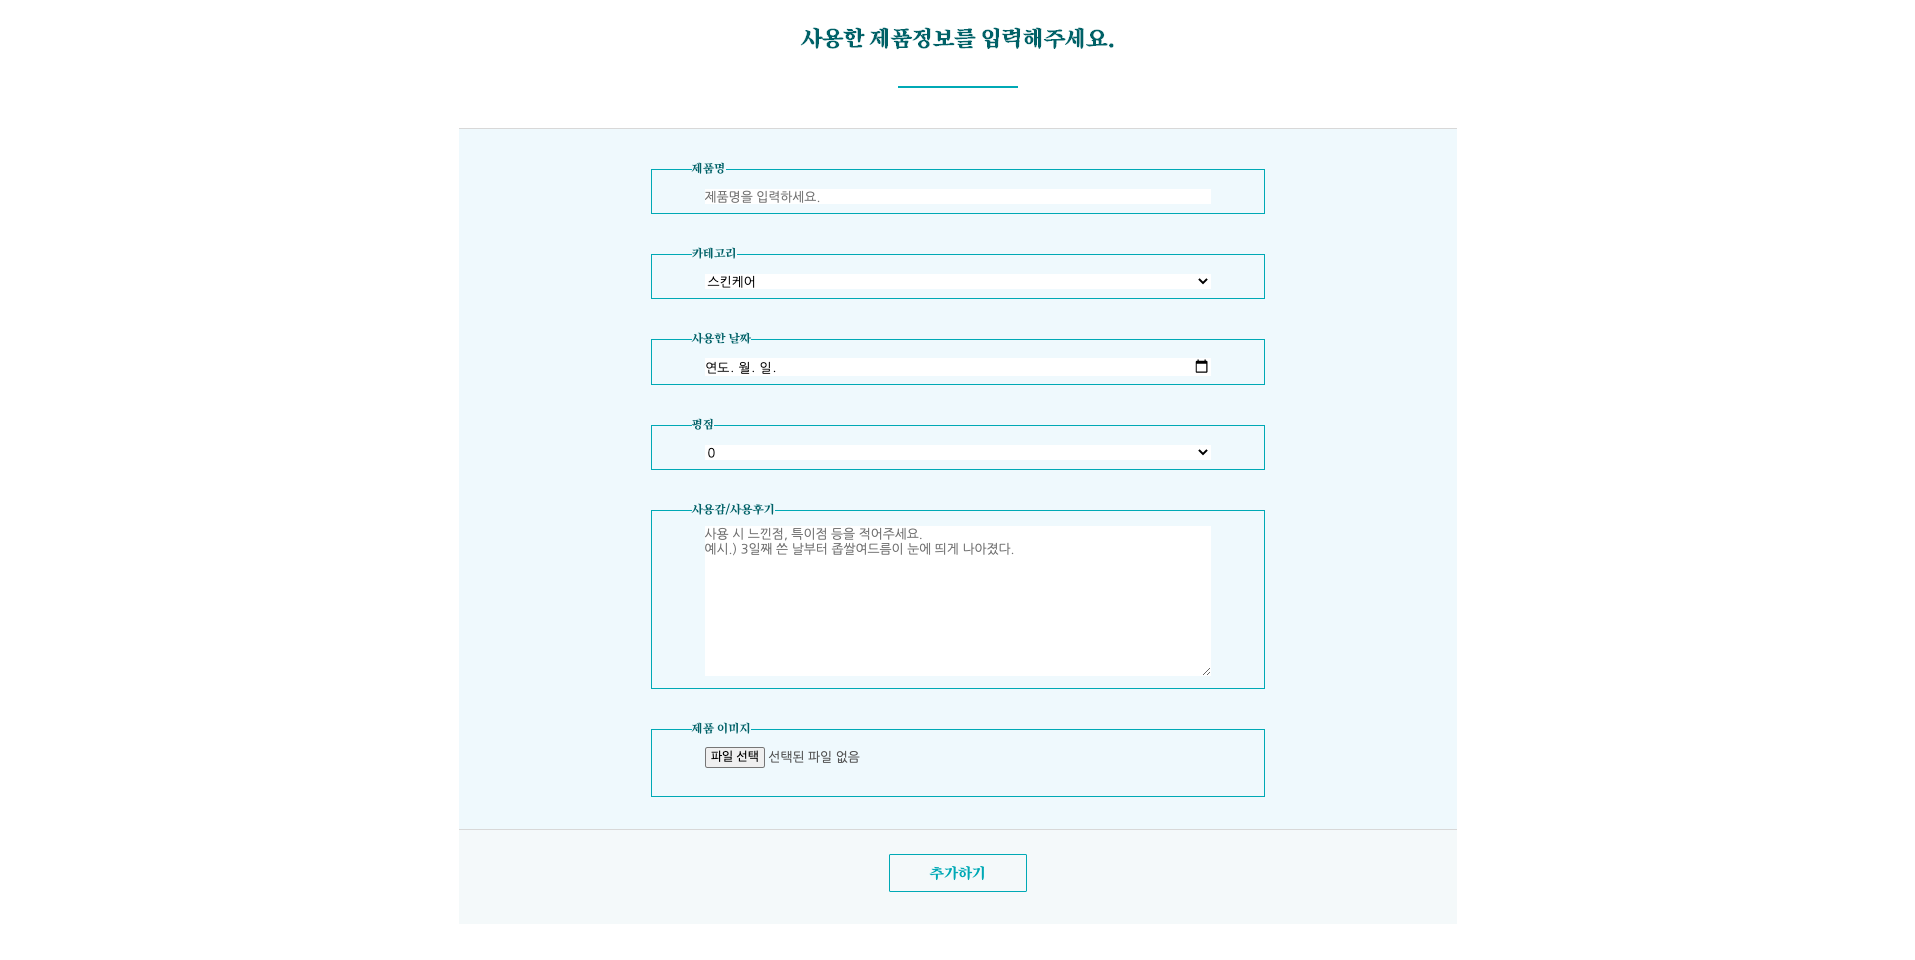
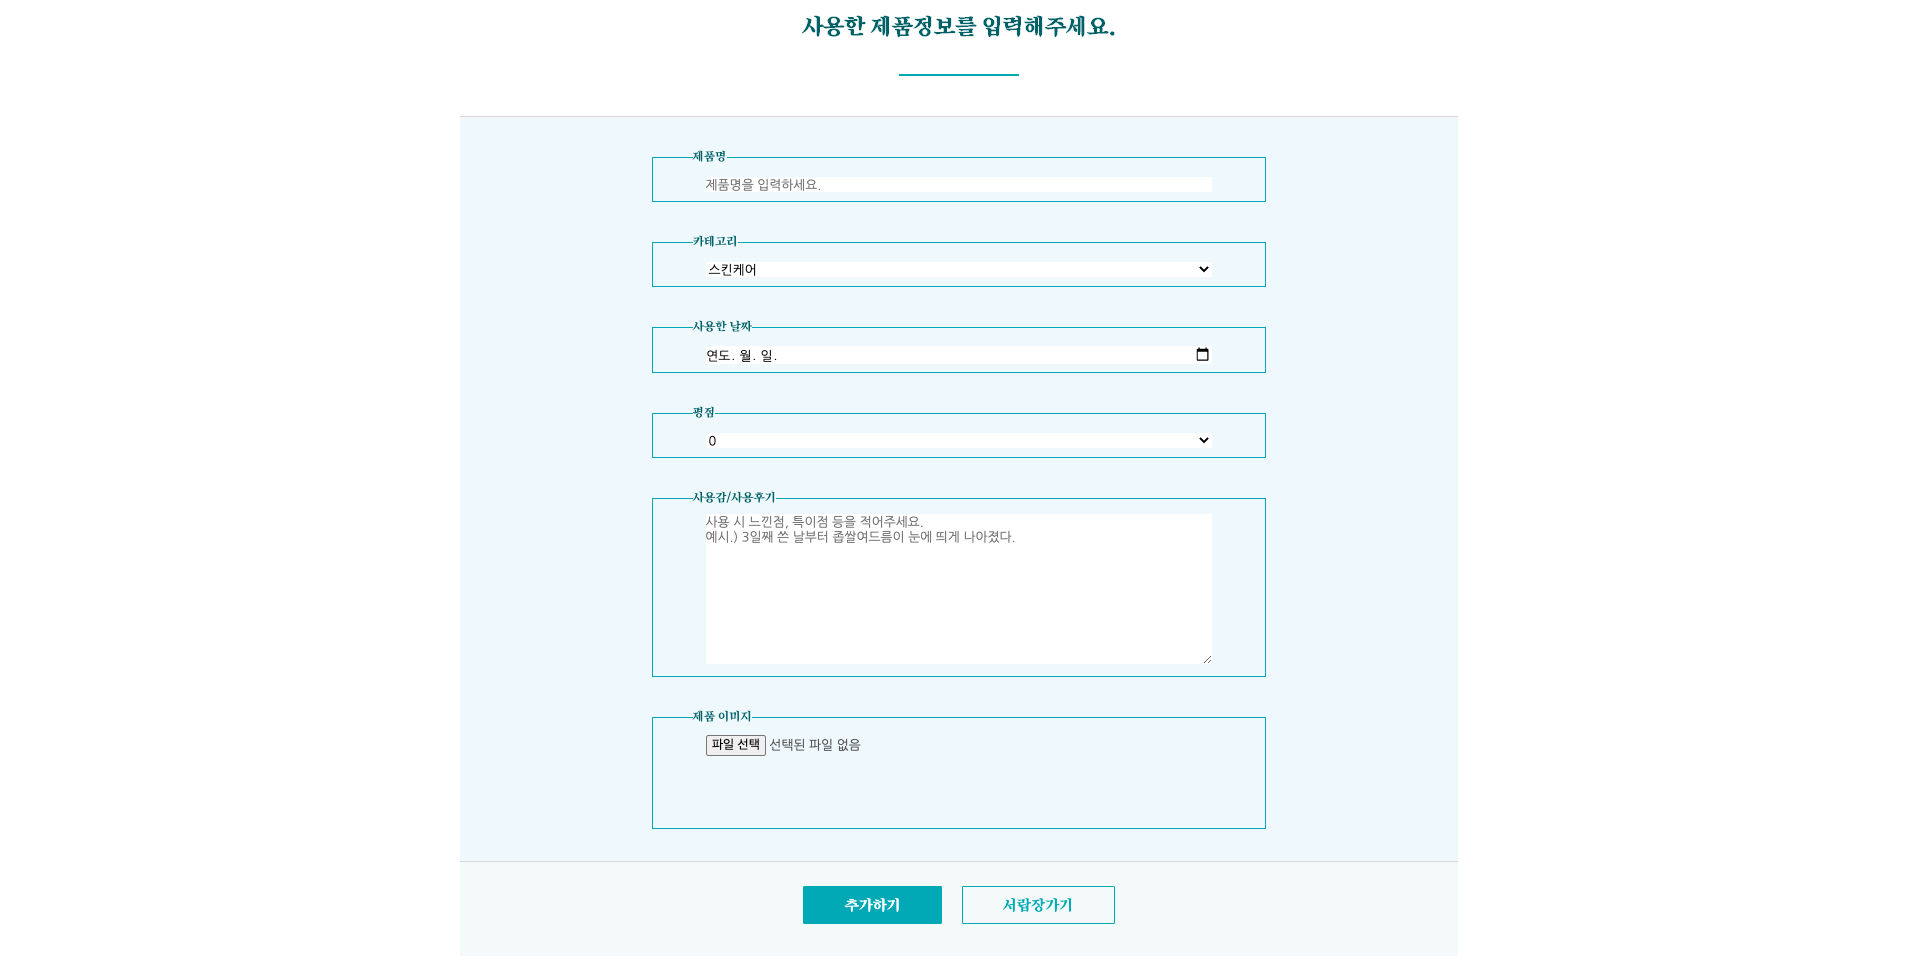
update: preview images & README updated

diff --git a/final_project/README.MD b/final_project/README.MD
@@ -11,5 +11,7 @@
 
 ## UI 이미지 <br>
 
-![UI1 img](./images/UI.png) <br>
-![UI2 img](./images/UI1.png)
+- <커버 이미지> ![cover image](./images/UI.png) <br>
+- <입력페이지 이미지> ![form image](./images/UI1.png) <br>
+- <서랍장 이미지> ![drawer image](./images/UI2.png) <br>
+- <상세페이지 이미지> ![detail-page image](./images/UI3.png)
